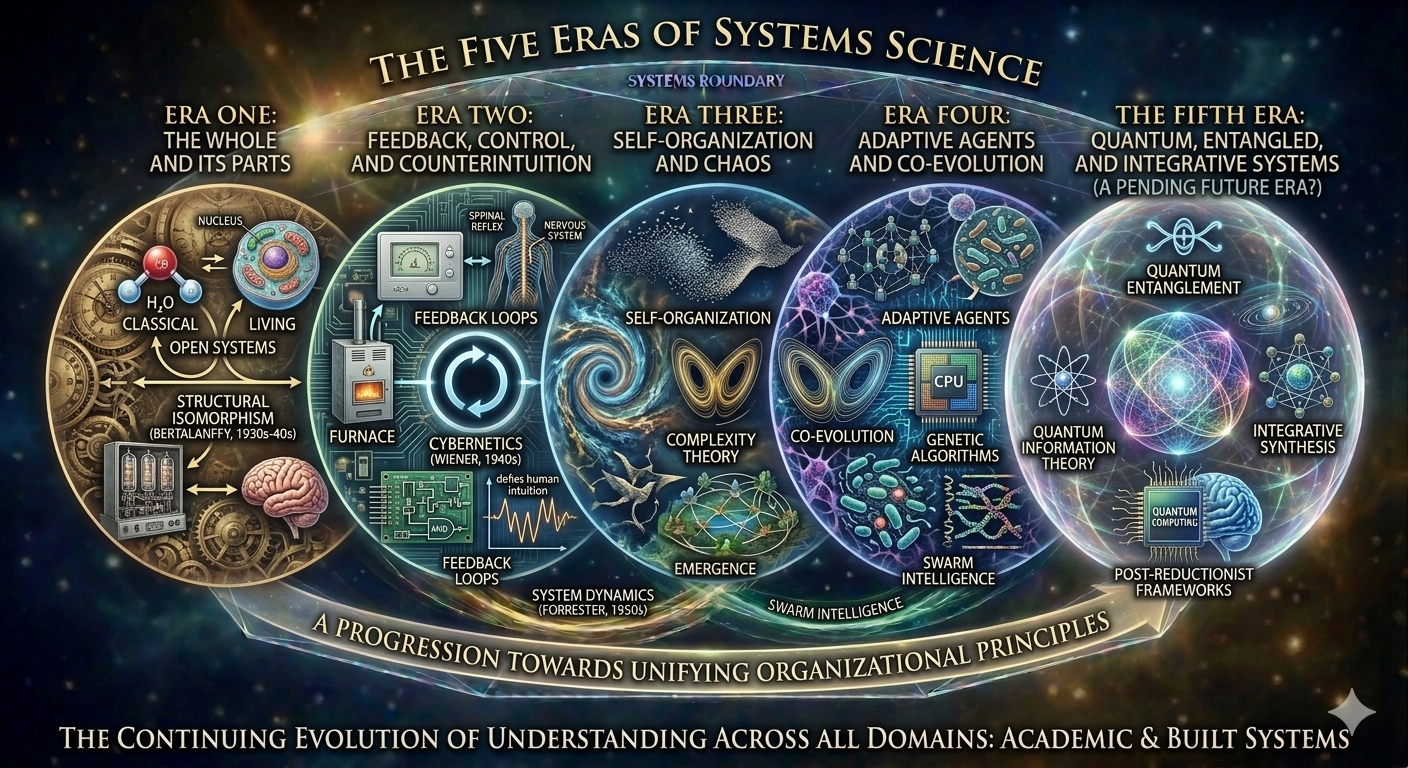
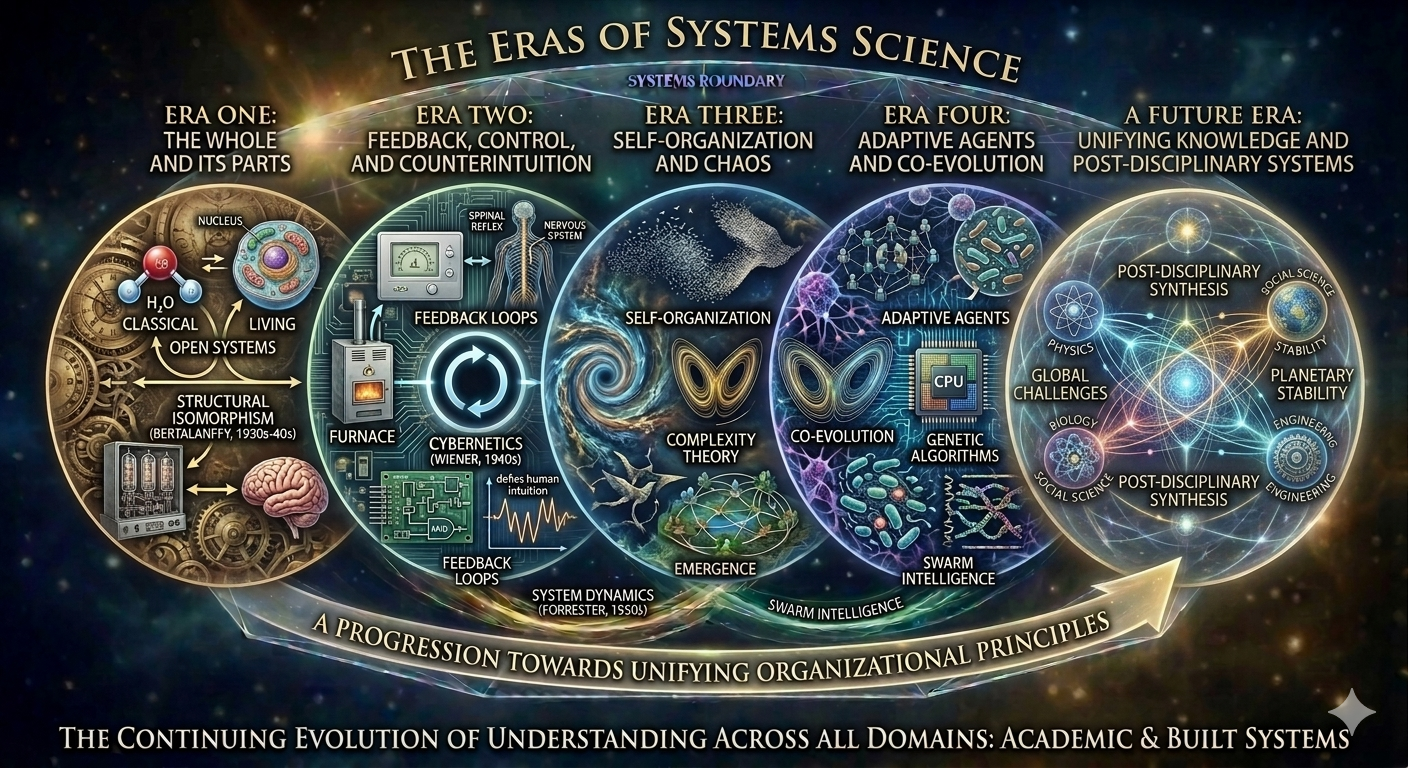
Simplify all Mermaid diagrams: remove subgraph/double-bracket/hexagon syntax, max 7 nodes each

diff --git a/src/articles/systems_science_eras-article.md b/src/articles/systems_science_eras-article.md
@@ -39,18 +39,15 @@ But it had a blind spot. It was exquisitely good at explaining what things *are 
 Ludwig von Bertalanffy noticed this first, working in Vienna in the 1930s and 1940s. He was studying living organisms, and he kept running into the same problem: the behavior of an organism couldn't be predicted from the behavior of its parts, even if you knew the parts very well. Something was happening at the level of organization that the parts didn't contain. He began looking for the principles governing that level — and found them appearing everywhere: in physics, in economics, in social systems, in psychology. He called this General Systems Theory, and its central claim was radical: there are universal structural principles that apply to all organized systems, regardless of what they're made of.
 
 ```mermaid
-flowchart TD
-  E["Environment"] -->|"Energy & Matter"| S[["Open System\n(Bertalanffy)"]]
-  S -->|"Output / Waste"| E
-  S --> H["Hierarchical Organization"]
-  H --> P1["Cell"]
-  H --> P2["Person"]
-  H --> P3["Organization"]
-  H --> P4["Civilization"]
-  P1 & P2 & P3 & P4 -->|"same structural\nprinciples"| EM["Emergent Behavior\nunpredictable from parts"]
-  style S fill:#0f2333,stroke:#d4a847,color:#c8dfe8
-  style EM fill:#0a1a26,stroke:#3a8fa8,color:#c8dfe8
-  style H fill:#0d1e2b,stroke:#6a9aaa,color:#c8dfe8
+graph TD
+  E[Environment] -->|Energy and Matter| S(Open System)
+  S -->|Output| E
+  S --> H[Organizational Pattern]
+  H --> P1[Cell]
+  H --> P2[Person]
+  H --> P3[Organization]
+  H --> P4[Civilization]
+  H --> EM[Emergent Behavior]
 ```
 
 Think of it this way: a computer's behavior is not explained by its transistors. The transistors are the hardware — necessary, but not sufficient. What the computer *does* is governed by the logic running on top of that hardware: the operating system, the software architecture, the rules for how components communicate. You could swap out every physical component and, if the organizational logic were preserved, the computer would behave identically. Bertalanffy was arguing that reality works this way too — that there is an organizational logic running across all complex systems, independent of what those systems are physically made of, and that understanding that logic was a new kind of science.
@@ -68,17 +65,14 @@ The second era built on Bertalanffy's abstract framework and made it dynamic. Tw
 Wiener showed, with mathematical precision, that a specific mechanism — a system using information about its own outputs to regulate its behavior — appeared across wildly different contexts: thermostats, nervous systems, guided missiles, and social institutions. He called this mechanism feedback, and he showed that it was not just an analogy between these systems. It was the same process operating in different media. The feedback loop in a nervous system and the feedback loop in a social institution obey the same equations.
 
 ```mermaid
-flowchart LR
-  G["Goal / Target State"] --> C{{"Comparator"}}
-  A["Actual State"] --> C
-  C -->|"Error Signal"| AC["Corrective Action"]
-  AC --> SY["System"]
-  SY -->|"new state"| A
-  SY -.->|"delay"| U["Unintended\nConsequences"]
-  U -.->|"policy resistance"| SY
-  style C fill:#0f2333,stroke:#3a8fa8,color:#c8dfe8
-  style AC fill:#0d1e2b,stroke:#c87832,color:#c8dfe8
-  style U fill:#1a0a12,stroke:#c03050,color:#c8dfe8
+graph LR
+  G[Goal] --> C{Compare}
+  A[Actual State] --> C
+  C -->|Error Signal| AC[Corrective Action]
+  AC --> SY[System]
+  SY --> A
+  SY -.->|Delay| U[Unintended Effects]
+  U -.-> SY
 ```
 
 What made this concrete was the computer. Wiener wasn't working alongside computing by coincidence — he was part of the same intellectual milieu that produced it. A digital circuit is a feedback system in the most literal sense: logic gates compare input states and produce outputs that cascade through the system, each stage's output becoming the next stage's input, the whole chain governed by rules about how signals combine. The *if-then* logic that makes software work is feedback given formal structure. Wiener was essentially discovering the theoretical principle at the same moment engineers were building the hardware instantiation of it.
@@ -100,18 +94,13 @@ This was chaos theory, and its most famous image is the Lorenz attractor.
 Edward Lorenz was a meteorologist studying atmospheric convection. His three coupled differential equations — describing how air moves in a heated convection cell — produced a trajectory in phase space that never repeated but also never escaped. It traced a butterfly-shaped path forever: two lobes, each one a region the system was drawn toward, with the system circling from one to the other in patterns that looked almost regular but never quite were. Two trajectories starting from almost identical initial conditions would track together for a while, then diverge, ending up in completely different regions of the attractor.
 
 ```mermaid
-flowchart TD
-  IC["Initial Conditions\n(nearly identical)"] --> SP{{"Sensitive\nDependence"}}
-  SP -->|"Path A"| T1["Trajectory A"]
-  SP -->|"Path B\n(0.001% different)"| T2["Trajectory B"]
-  T1 --> AB1[["Attractor Basin A\n— Healthy State —"]]
-  T2 --> AB2[["Attractor Basin B\n— Chronic Illness —"]]
-  AB1 -->|"stable,\nself-maintaining"| AB1
-  AB2 -->|"stable,\nself-maintaining"| AB2
-  AB2 -.->|"high intervention\nrequired"| AB1
-  style SP fill:#0f2333,stroke:#c87832,color:#c8dfe8
-  style AB1 fill:#0a1e12,stroke:#50c090,color:#c8dfe8
-  style AB2 fill:#1a0a12,stroke:#c03050,color:#c8dfe8
+graph TD
+  IC[Nearly Identical Start] --> SP{Sensitive Dependence}
+  SP -->|Path A| AB1[Healthy Attractor]
+  SP -->|Path B| AB2[Illness Attractor]
+  AB1 -->|self-maintaining| AB1
+  AB2 -->|self-maintaining| AB2
+  AB2 -.->|high effort required| AB1
 ```
 
 Here is something worth sitting with: the Lorenz attractor is a program. Three equations, iterated forward in time with a tiny time step, over and over, millions of times. The butterfly shape is not stored anywhere in those equations. It *emerges* from the rules running forward. And critically: you can run the same program twice from starting positions that differ by a thousandth of a decimal place, and watch two identical-looking trajectories gradually pull apart until they're tracing entirely different regions of the attractor. The code is identical. The output diverges. This is not a bug. It is a mathematical property of the system — and it is the same property that makes two nearly-identical patients respond to the same treatment in completely opposite ways, and two nearly-identical organizations facing the same challenge end up in completely different states five years later.
@@ -133,18 +122,14 @@ The fourth era is the one we are living in, and its defining development is some
 The mathematics of neural networks had existed since the 1940s — since Wiener's era, not coincidentally. The conceptual framework — networks of simple processing units, weighted connections, learning through iterative adjustment of those weights based on feedback about errors — had been developed and largely abandoned twice before the current wave. What changed was not the theory. It was the scale of data and the speed of compute.
 
 ```mermaid
-flowchart LR
-  SR["Simple Rule:\nPredict next token"] --> FB["Iterative\nFeedback"]
-  FB --> W["Weight\nAdjustment\n× billions"]
-  W --> E{{"Emergence\nat Scale"}}
-  E --> C1["Reasoning"]
-  E --> C2["Creative Writing"]
-  E --> C3["Cross-domain\nTransfer"]
-  E --> C4["Capabilities\nnobody specified"]
-  C4 -.->|"unpredicted\nby the rules"| SR
-  style SR fill:#0d1e2b,stroke:#3a8fa8,color:#c8dfe8
-  style E fill:#0f2333,stroke:#7a5ac8,color:#c8dfe8
-  style C4 fill:#1e1e3a,stroke:#7a5ac8,color:#7acce0
+graph LR
+  R[Simple Rule] --> FB[Iteration]
+  FB --> W[Weight Adjustment]
+  W --> E{Emergence}
+  E --> C1[Reasoning]
+  E --> C2[Language]
+  E --> C3[Generalization]
+  C3 -.->|unpredicted by rules| R
 ```
 
 And what emerged, when those elements finally came together, was the most dramatic demonstration of the central theorem of complexity science that humanity has ever produced: simple rules applied iteratively with feedback, at sufficient scale, generate behavior that cannot be predicted from the rules. Nobody specified what a large language model would be able to do. Nobody programmed it to reason, to write poetry, to explain a technical concept in the style of a particular author. The rules said: take a network of weighted connections, show it sequences of text, and adjust the weights slightly based on how well the network predicts what comes next. That's the entire specification. Everything else emerged.
@@ -162,25 +147,13 @@ Now for the thread that was foreshadowed at the start.
 Running alongside each of the four eras described above — not as a consumer of systems science ideas, but as an independent and extraordinarily rapid source of the same discoveries — is the history of software engineering. Most systems scientists are not software engineers. Most software engineers do not think of themselves as systems scientists. The disciplines developed largely in parallel, with different vocabularies, different institutions, and different problems. But the isomorphism between what systems science discovered theoretically and what software engineering discovered empirically is among the most striking in the history of ideas.
 
 ```mermaid
-flowchart LR
-  subgraph SS["Systems Science  (Theory)"]
-  direction TB
-  S1["Era 1\nGeneral Systems\nTheory"] --> S2["Era 2\nCybernetics &\nFeedback"]
-  S2 --> S3["Era 3\nChaos &\nComplexity"]
-  S3 --> S4["Era 4\nAI & Neural\nNetworks"]
-  end
-  subgraph SE["Software Engineering  (Empirical)"]
-  direction TB
-  P1["1960s\nMonolithic\nCode"] --> P2["1970s\nModular\nArchitecture"]
-  P2 --> P3["1980s–90s\nObject-Oriented\nSystems"]
-  P3 --> P4["2000s–now\nAgile + ML\n& LLMs"]
-  end
-  S1 <-.->|"isomorphism"| P1
-  S2 <-.->|"isomorphism"| P2
-  S3 <-.->|"isomorphism"| P3
-  S4 <-.->|"isomorphism"| P4
-  style SS fill:#0a1820,stroke:#3a8fa8
-  style SE fill:#0a1820,stroke:#c87832
+graph LR
+  SS[Systems Science] -->|theorizes| T[Structural Principles]
+  SE[Software Engineering] -->|independently discovers| T
+  T --> I1[Era 1 - Organization]
+  T --> I2[Era 2 - Feedback]
+  T --> I3[Era 3 - Emergence]
+  T --> I4[Era 4 - AI]
 ```
 
 And the reason it's striking is the timescale.
@@ -212,15 +185,14 @@ Four eras of systems science — and a parallel software track that compressed d
 There is a fifth layer visible on the horizon, though its full character isn't yet clear. It has to do with non-locality — with the possibility that the organizational principles governing complex systems operate in ways not fully captured by the local interaction rules we've been studying. Quantum entanglement demonstrates non-local correlation at the physical level. The holographic principle in physics suggests that information about a volume of space may be encoded on its boundary in ways that violate simple locality assumptions. Consciousness — the aspect of human experience most resistant to explanation at any of the first four levels — may turn out to require a framework that accounts for non-local structure in ways we don't yet know how to formalize.
 
 ```mermaid
-flowchart TD
-  E4["Era 4 — Known Territory\nNetworked Complexity · AI · Emergence"] --> F{{"Scientific\nFrontier"}}
-  F --> NL["Non-locality\n(Quantum entanglement)"]
-  F --> QC["Quantum Coherence\nin biological systems"]
-  F --> CS["Consciousness\n& subjective experience"]
-  F --> AE["AI Emergence\nbeyond mechanistic account"]
-  NL & QC & CS & AE -.->|"unknown\nconnections"| E5["Era 5 — ?\n(structure not yet visible)"]
-  style F fill:#0f2333,stroke:#d4a847,color:#c8dfe8
-  style E5 fill:#1e1e3a,stroke:#7a5ac8,stroke-dasharray:6,color:#7acce0
+graph TD
+  E4[Era 4 - Known Territory] --> F{Scientific Frontier}
+  F --> NL[Non-locality]
+  F --> CS[Consciousness]
+  F --> AE[AI Emergence]
+  NL -.-> E5[Era 5 - Unknown]
+  CS -.-> E5
+  AE -.-> E5
 ```
 
 Whether this involves something like invisible organizational blueprints operating through entanglement and emergence from quantum-level phenomena — whether it eventually makes sense to speak of quantum isomorphisms in the same way we speak of the feedback-loop isomorphisms of Era Two — remains genuinely open. The AI systems we've built at Era Four's leading edge already exhibit properties we can't fully account for mechanistically: representations that generalize across domains in ways that mirror human conceptual understanding, emergent capabilities that appear suddenly at scale thresholds. Whether this is merely complex-systems emergence well-understood in principle, or whether it points to something in Era Five territory, is a live question.
